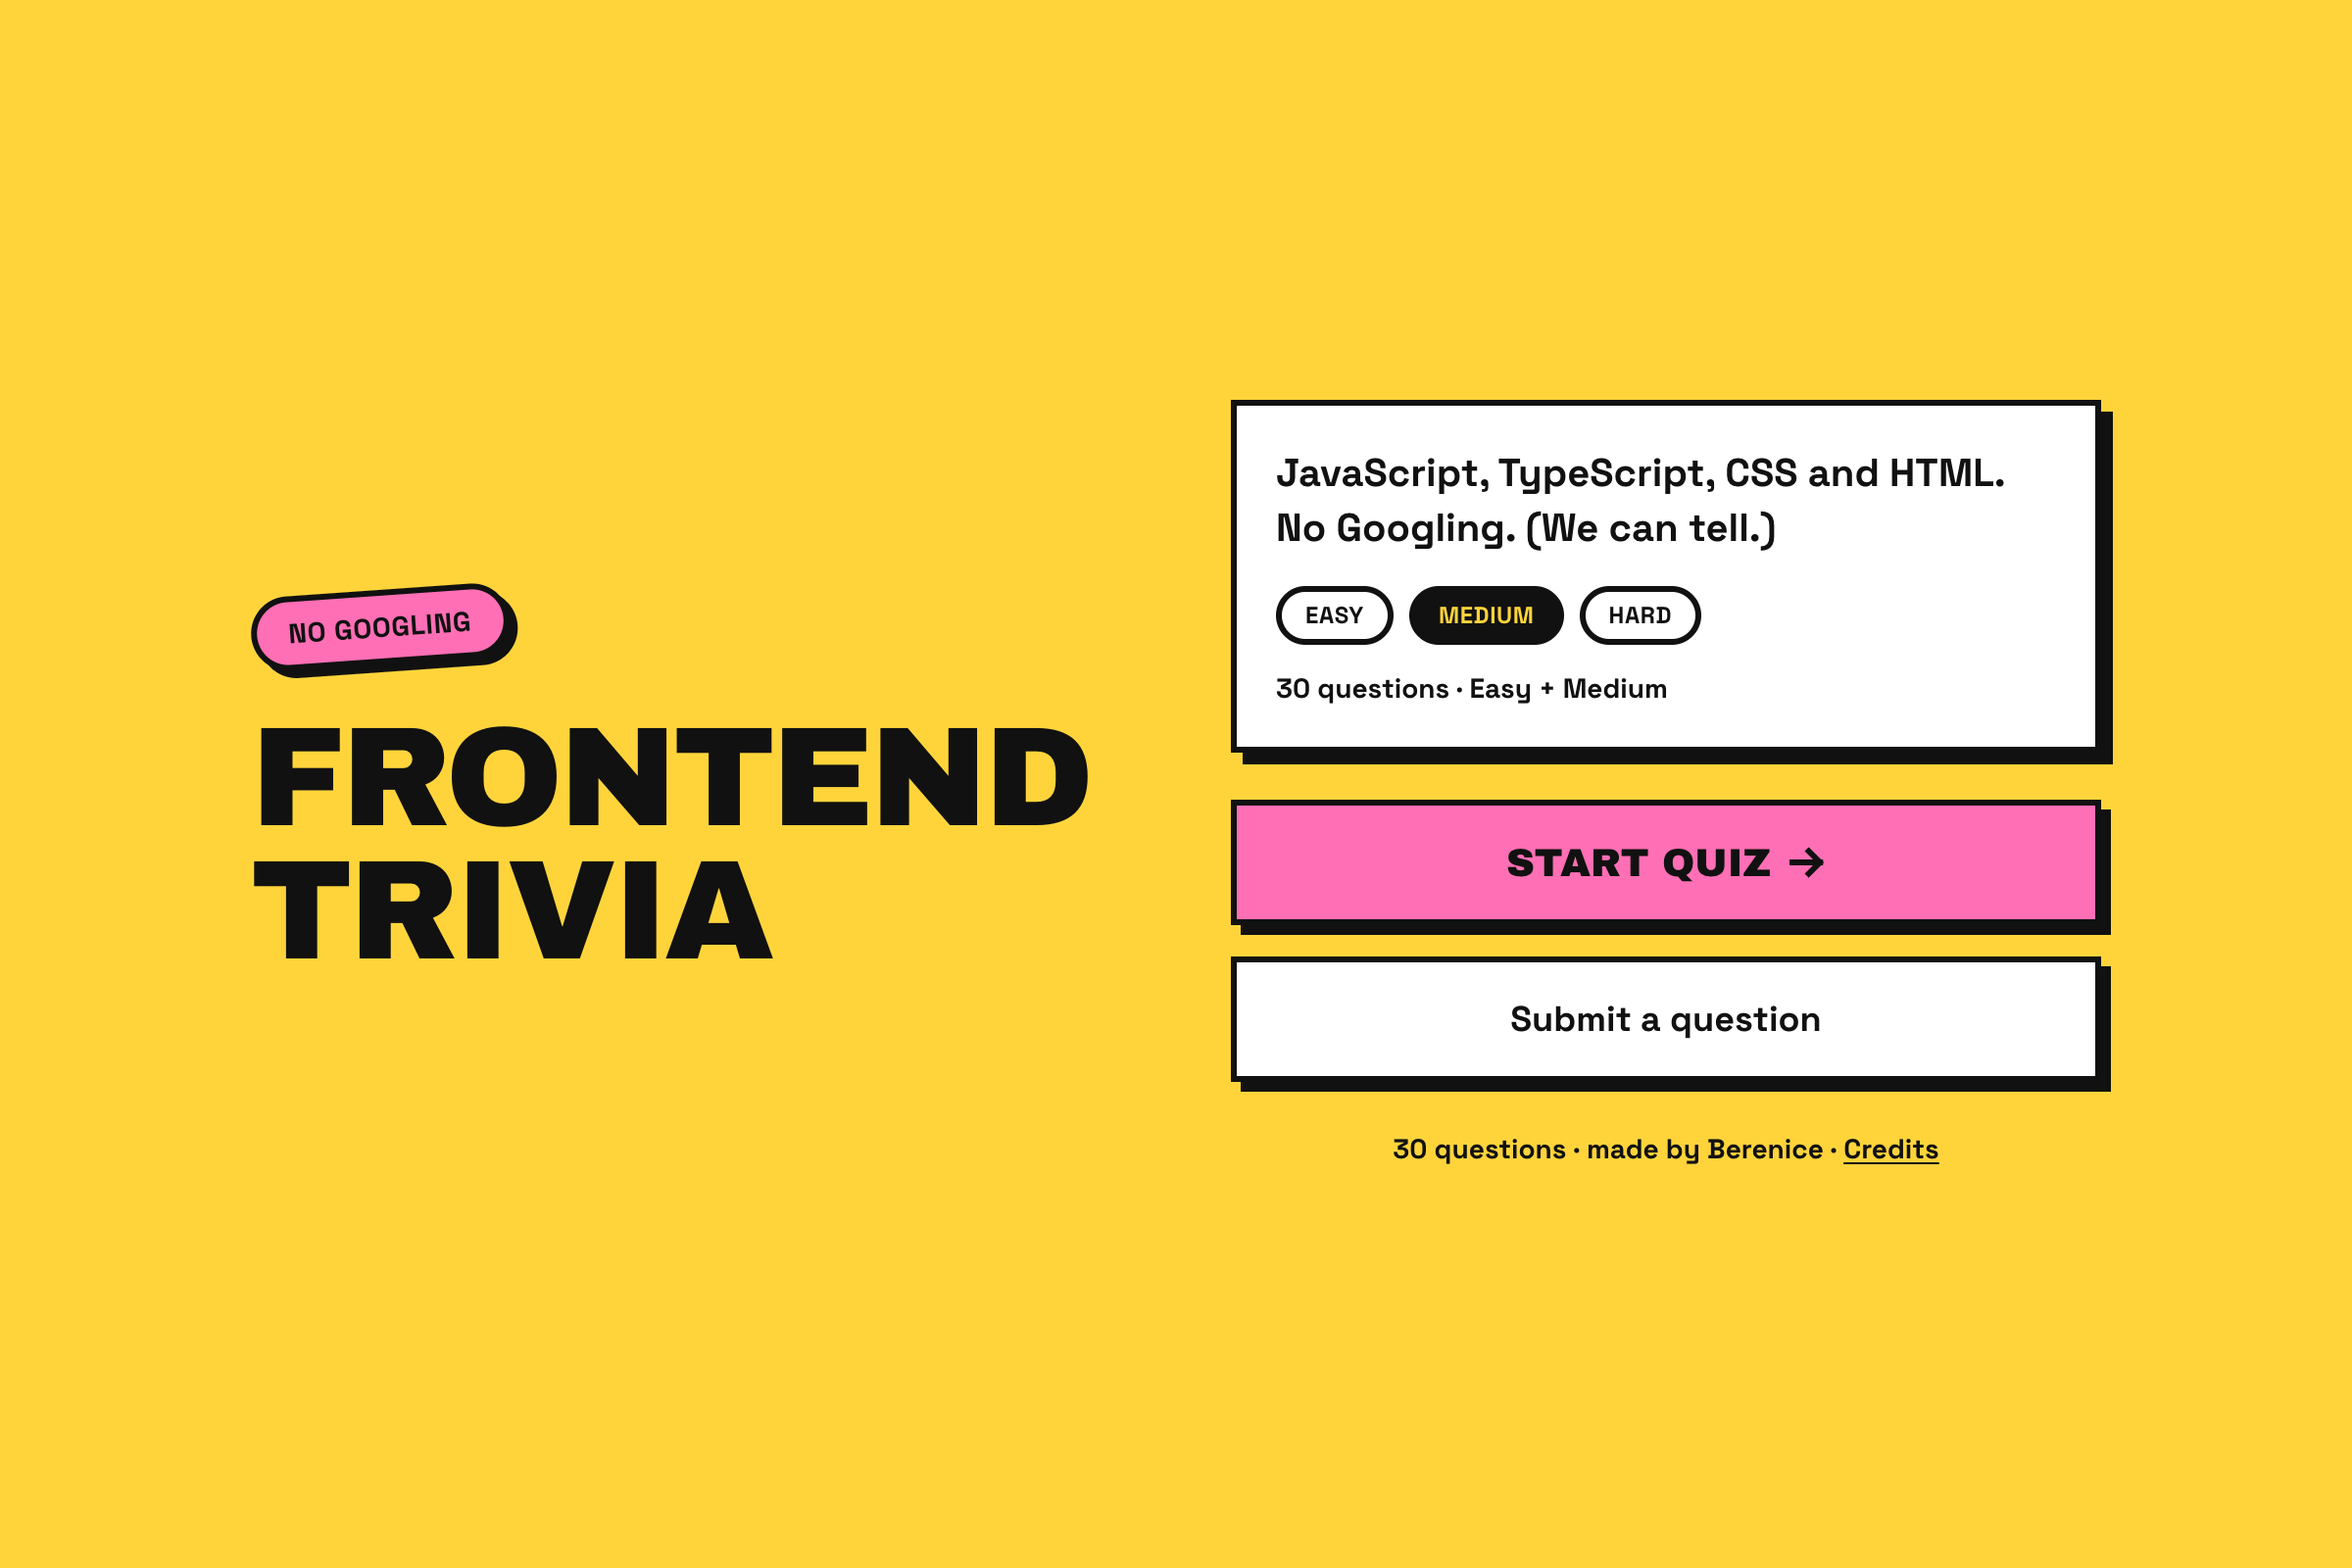
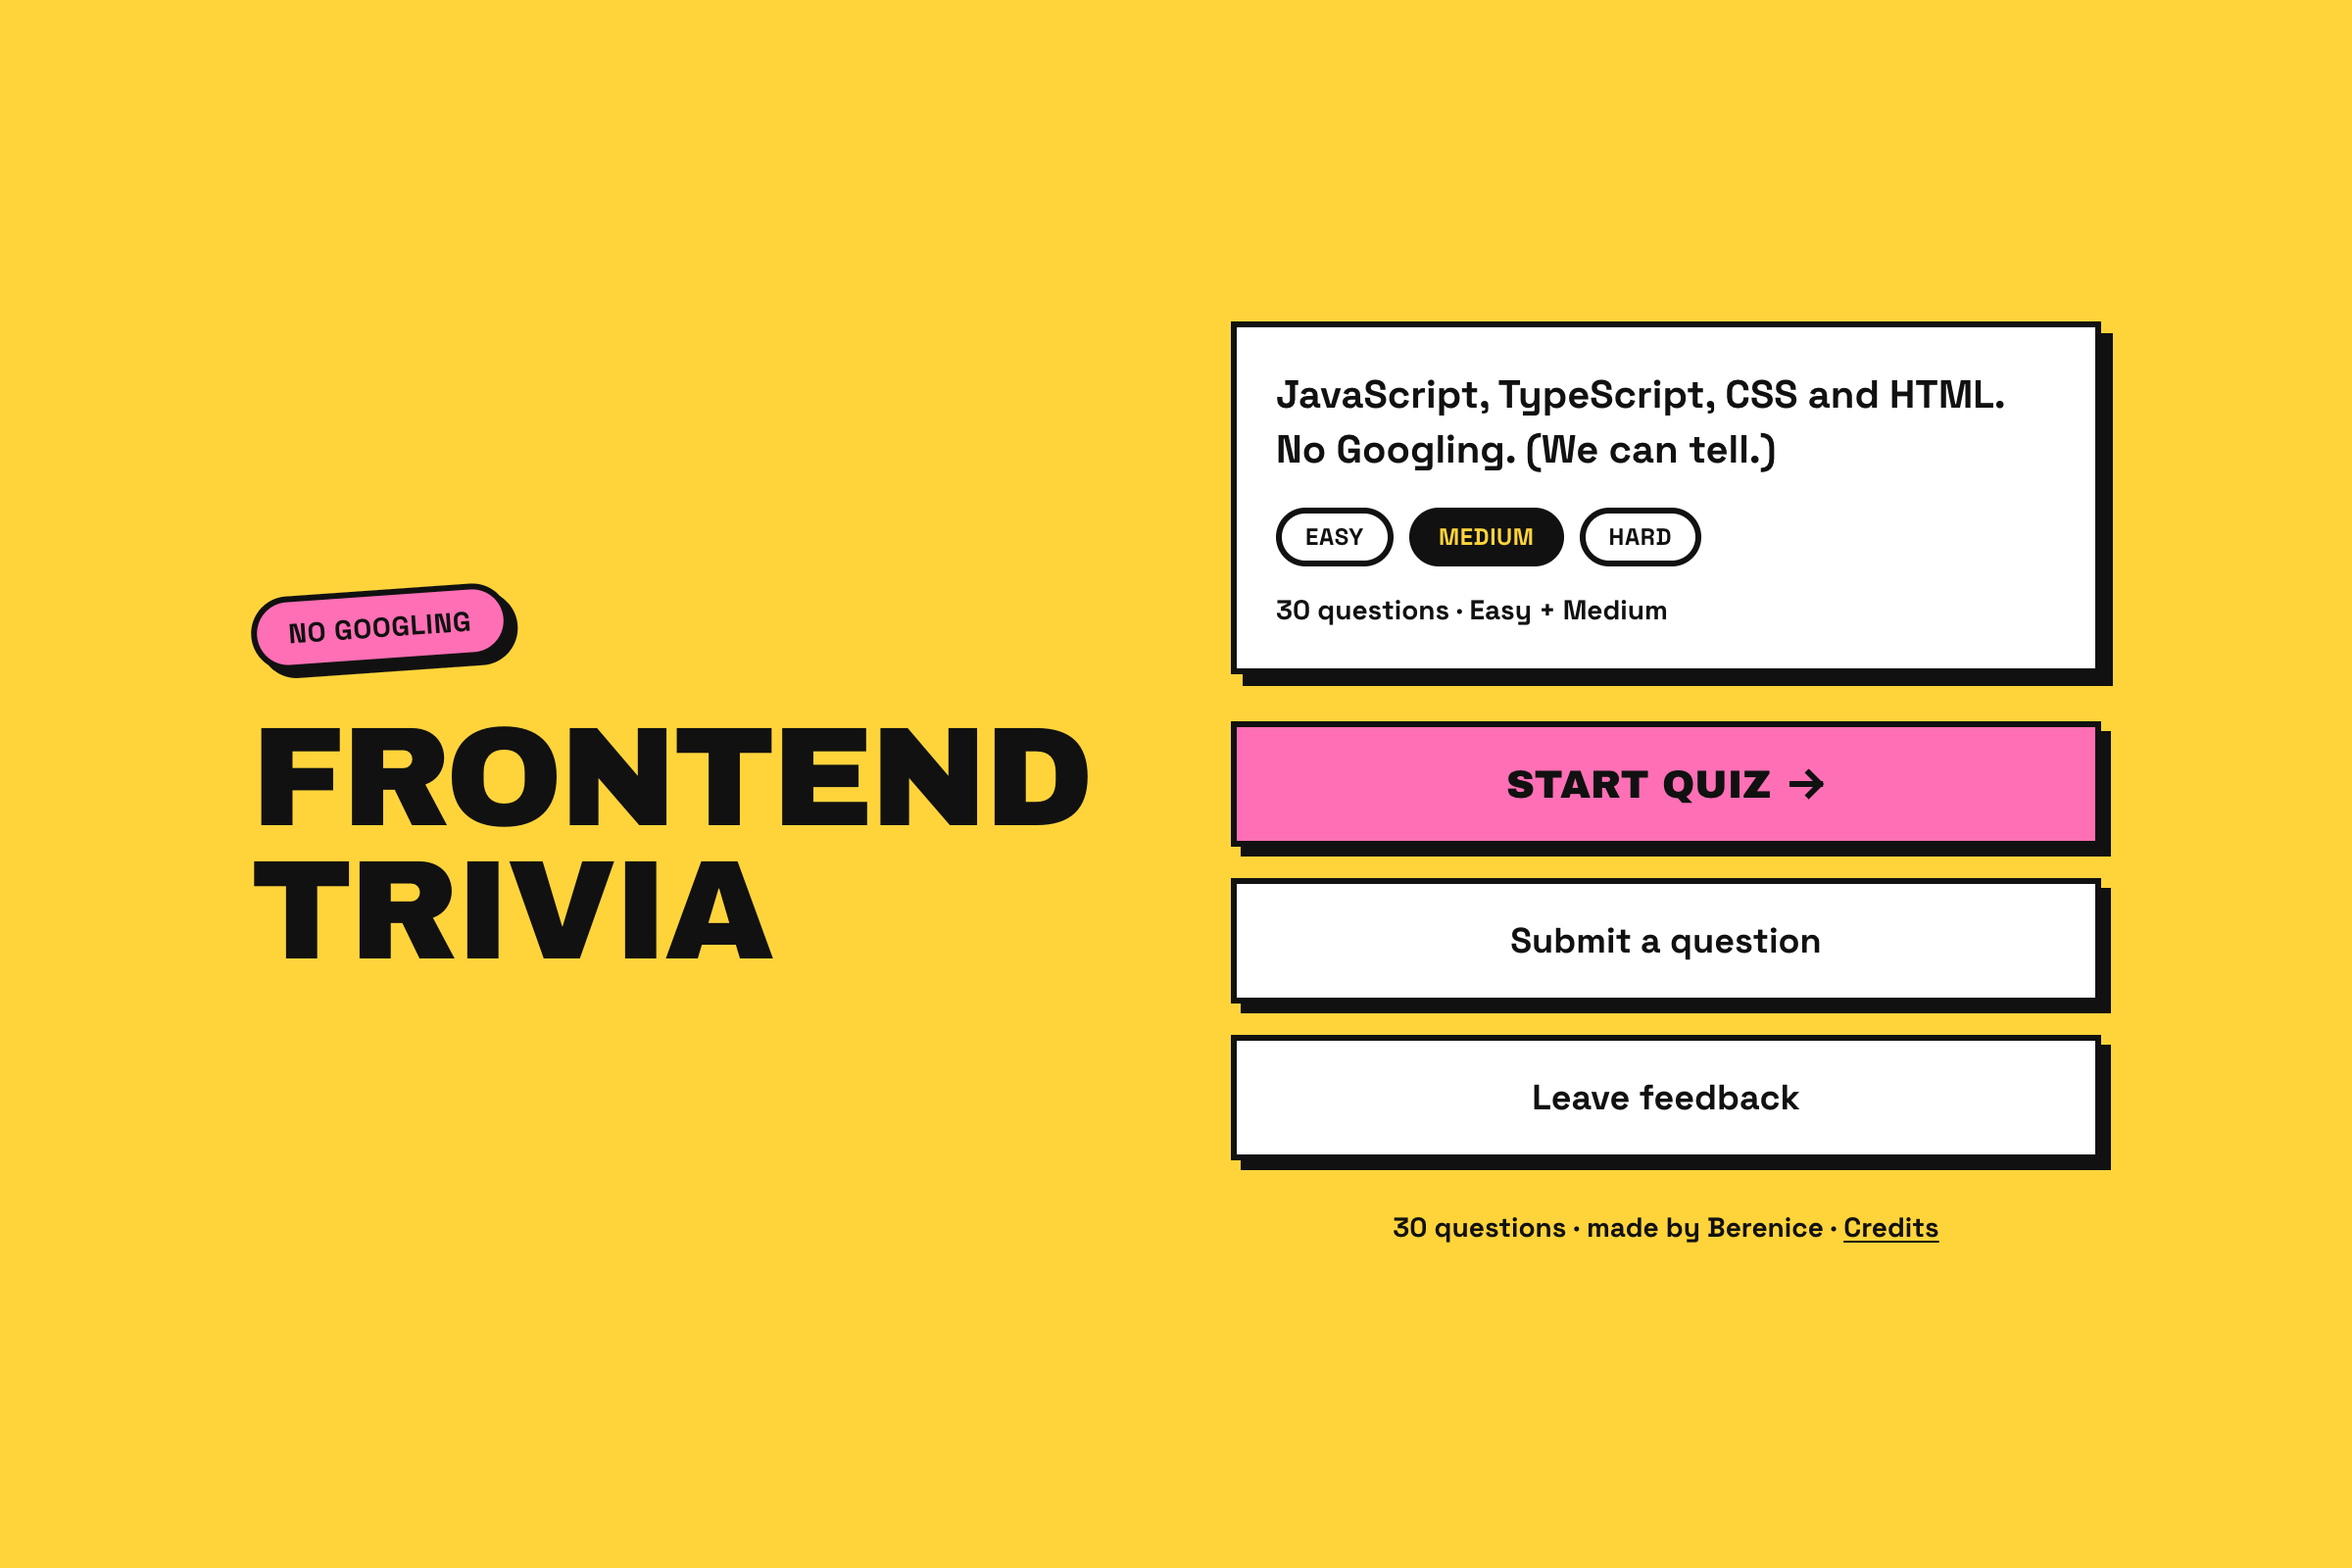
README: refresh the screenshots and describe sharing the result as a picture
New home (with the feedback button) and mobile answered-question captures,
plus the feedback page.

Changed region(s): [[0.5, 0.1875, 0.9062, 0.75], [0.5938, 0.7812, 0.8125, 0.8125]]

diff --git a/README.md b/README.md
@@ -35,9 +35,10 @@ Players pick a difficulty, answer a shuffled set of questions, learn something f
 | Answered | <img src="docs/screenshots/quiz-answered-desktop.png" width="360"> | <img src="docs/screenshots/quiz-answered-mobile.png" width="140"> |
 | Results | <img src="docs/screenshots/results-desktop.png" width="360"> | <img src="docs/screenshots/results-mobile.png" width="140"> |
 | Submit a question | <img src="docs/screenshots/submit-desktop.png" width="360"> | <img src="docs/screenshots/submit-mobile.png" width="140"> |
+| Leave feedback | <img src="docs/screenshots/feedback-desktop.png" width="360"> | <img src="docs/screenshots/feedback-mobile.png" width="140"> |
 | Credits | <img src="docs/screenshots/credits-desktop.png" width="360"> | <img src="docs/screenshots/credits-mobile.png" width="140"> |
 
-The admin page is not pictured because it lists real pending submissions.
+The admin page is not pictured because it lists real pending submissions and feedback notes.
 
 ## Tech stack
 
@@ -117,7 +118,7 @@ In development only, two shortcuts help with styling: `/quiz?score=7` jumps stra
 
 1. The home page reads the approved questions from the database and filters them by the chosen difficulty (`?difficulty=Easy|Medium|Hard`; an invalid value falls back to the default).
 2. `/quiz` builds a game: it shuffles the questions, optionally limits how many to play, and shuffles each question's answers. The quiz page opts out of static rendering so every visit gets a fresh shuffle.
-3. The player answers, sees the explanation, and at the end gets a score, a tier and a share text.
+3. The player answers, sees the explanation, and at the end gets a score and a tier, and can share the result as a picture.
 
 If no question matches the chosen difficulty, the full pool is used instead.
 
